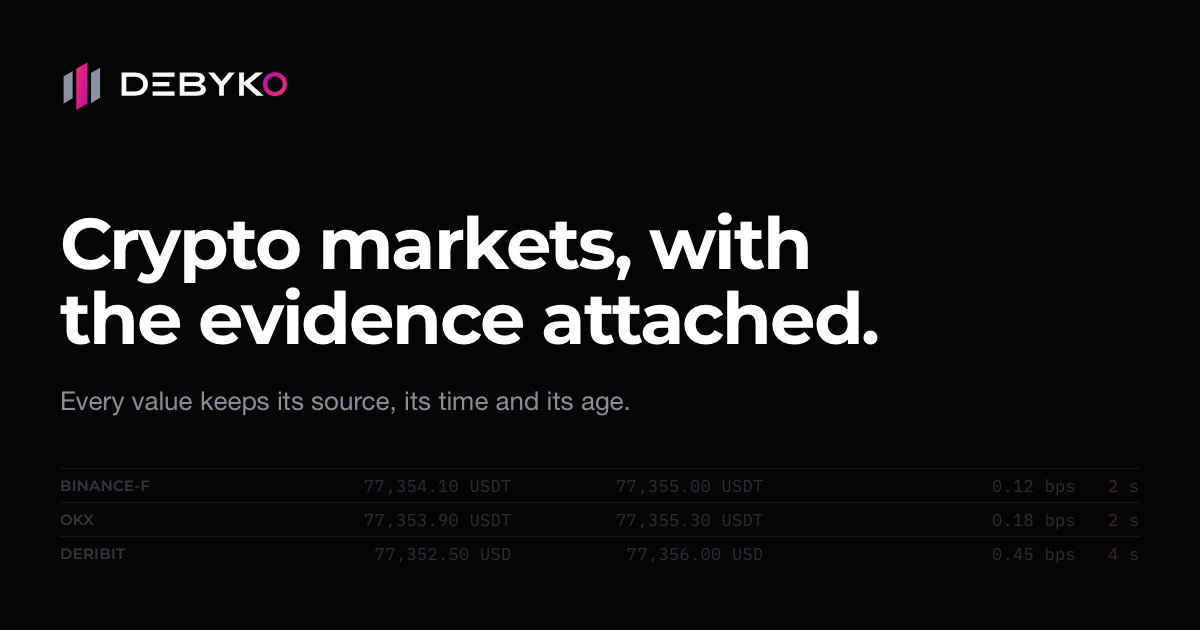
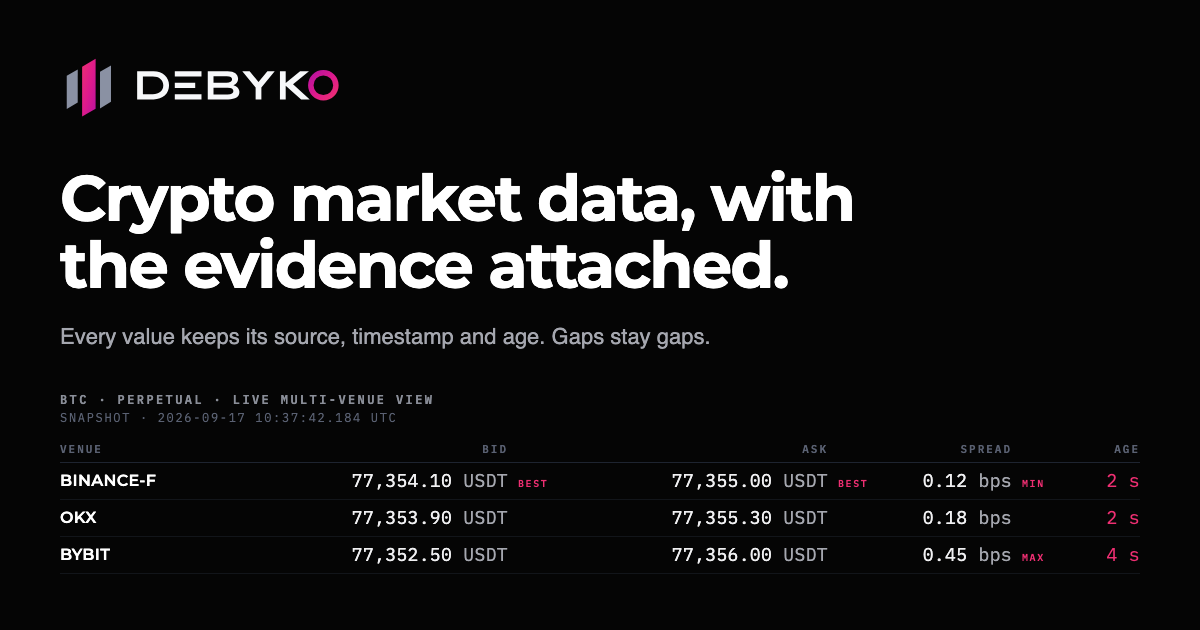
New OG card: proposition plus a live multi-venue proof block
Static HTML source replaces the SVG; og:image carries ?v=2 so feeds refetch it.

diff --git a/og/debyko-og-source.html b/og/debyko-og-source.html
@@ -1,0 +1,83 @@
+<!DOCTYPE html>
+<!--
+  debyko.com OG card, 1200 x 630. Source for debyko-og-1200x630.png.
+  Content is a sample, not live data. Export:
+    Chrome --headless --window-size=1200,630 --screenshot=debyko-og-1200x630.png debyko-og-source.html
+-->
+<html lang="en">
+<head>
+<meta charset="utf-8">
+<title>DEBYKO OG card</title>
+<link rel="stylesheet" href="https://fonts.googleapis.com/css2?family=Montserrat:wght@600;700&family=IBM+Plex+Mono:wght@400;600&display=block">
+<style>
+  html, body { margin: 0; background: #050505; }
+  #og { width: 1200px; height: 630px; box-sizing: border-box; padding: 56px 60px; overflow: hidden;
+        display: flex; flex-direction: column; justify-content: space-between;
+        background: #050505; color: #FFFFFF; font-family: Montserrat, Arial, sans-serif; }
+  .logo { display: block; width: 329px; height: 68px; flex: none; }
+  .prop { display: flex; flex-direction: column; gap: 22px; }
+  h1 { margin: 0; max-width: 920px; font: 700 64px/1.05 Montserrat, Arial, sans-serif; letter-spacing: -.03em; text-wrap: balance; }
+  .sub { margin: 0; max-width: 760px; font: 400 22px/1.45 Helvetica, Arial, sans-serif; color: #A5A7AF; }
+  .proof { display: flex; flex-direction: column; gap: 12px; }
+  .meta { display: flex; flex-direction: column; gap: 6px; font-family: "IBM Plex Mono", monospace; text-transform: uppercase; }
+  .inst { font: 600 12px/1 "IBM Plex Mono", monospace; letter-spacing: .2em; color: #8A8E98; }
+  .stamp { font: 400 12px/1 "IBM Plex Mono", monospace; letter-spacing: .14em; color: #5A6172; font-variant-numeric: tabular-nums; }
+  .table { display: flex; flex-direction: column; font: 400 18px/1 "IBM Plex Mono", monospace; letter-spacing: .02em;
+           font-variant-numeric: tabular-nums; color: #F0F0F2; }
+  .head, .row { display: grid; grid-template-columns: 170px 1fr 1fr 150px 64px; gap: 0 28px; align-items: center; white-space: nowrap; }
+  .head { height: 26px; border-bottom: 1px solid #1E2430; font: 600 11px/1 "IBM Plex Mono", monospace; letter-spacing: .18em; color: #5A6172; }
+  .head span { text-align: right; }
+  .head span:first-child { text-align: left; }
+  .head .pb { padding-right: 42px; }
+  .head .ps { padding-right: 36px; }
+  .row { height: 36px; border-bottom: 1px solid #12151A; }
+  .venue { font: 600 16px/1 Montserrat, Arial, sans-serif; letter-spacing: .02em; color: #FFFFFF; }
+  .cell { display: flex; justify-content: flex-end; align-items: baseline; gap: 10px; }
+  u { text-decoration: none; color: #A5A7AF; }
+  i { font: 600 10px/1 "IBM Plex Mono", monospace; font-style: normal; letter-spacing: .16em; color: #EE2F72; min-width: 32px; text-align: left; }
+  .sp i { min-width: 26px; }
+  .age { text-align: right; color: #EE2F72; }
+</style>
+</head>
+<body>
+<div id="og">
+  <svg class="logo" xmlns="http://www.w3.org/2000/svg" viewBox="0 0 1240 260" role="img" aria-label="DEBYKO"><defs><linearGradient id="g" x1="0" y1="0" x2="1" y2="1"><stop offset="0" stop-color="#EE2F72"></stop><stop offset=".52" stop-color="#DE1A8C"></stop><stop offset="1" stop-color="#B8129F"></stop></linearGradient><linearGradient id="r" x1="0" y1="0" x2="1" y2="1"><stop offset="0" stop-color="#B8129F"></stop><stop offset=".52" stop-color="#DE1A8C"></stop><stop offset="1" stop-color="#EE2F72"></stop></linearGradient></defs><g transform="translate(0,-18) scale(0.60) translate(-250,0)"><path d="M278 156L348 116V326L278 368Z" fill="#8A91A3"></path><path d="M376 98L462 48V366L376 416Z" fill="url(#g)"></path><path d="M490 130L560 90V322L490 364Z" fill="#8A91A3"></path></g><g transform="translate(250,-400)"><path fill-rule="evenodd" d="M36 458H99C134 458 158 480 158 512S134 566 99 566H36ZM58 478V546H96C120 546 136 533 136 512S120 478 96 478Z" fill="#F7F8FA"></path><path fill-rule="nonzero" d="M180 458H282V478H180ZM180 502H258V522H180ZM180 546H282V566H180Z" fill="#F7F8FA"></path><path fill-rule="evenodd" d="M306 458H382C408 458 422 470 422 487C422 499 415 507 404 512C418 516 427 525 427 538C427 556 412 566 384 566H306ZM328 477V502H378C391 502 399 498 399 489C399 481 392 477 379 477ZM328 521V547H382C397 547 404 543 404 534C404 525 397 521 382 521Z" fill="#F7F8FA"></path><path fill-rule="nonzero" d="M438 458H466L500 499L534 458H562L511 520V566H489V520Z" fill="#F7F8FA"></path><path fill-rule="nonzero" d="M582 458H604V503L659 458H693L632 508L696 566H663L604 514V566H582Z" fill="#F7F8FA"></path><circle cx="748" cy="512" r="48" fill="none" stroke="url(#r)" stroke-width="21"></circle></g></svg>
+  <div class="prop">
+    <h1>Crypto market data, with the evidence attached.</h1>
+    <p class="sub">Every value keeps its source, timestamp and age. Gaps stay gaps.</p>
+  </div>
+  <div class="proof">
+    <div class="meta">
+      <span class="inst">BTC · Perpetual · Live multi-venue view</span>
+      <span class="stamp">Snapshot · 2026-09-17 10:37:42.184 UTC</span>
+    </div>
+    <div class="table">
+      <div class="head">
+        <span>VENUE</span><span class="pb">BID</span><span class="pb">ASK</span><span class="ps">SPREAD</span><span>AGE</span>
+      </div>
+      <div class="row">
+        <span class="venue">BINANCE-F</span>
+        <span class="cell"><span>77,354.10 <u>USDT</u></span><i>BEST</i></span>
+        <span class="cell"><span>77,355.00 <u>USDT</u></span><i>BEST</i></span>
+        <span class="cell sp"><span>0.12 <u>bps</u></span><i>MIN</i></span>
+        <span class="age">2 s</span>
+      </div>
+      <div class="row">
+        <span class="venue">OKX</span>
+        <span class="cell"><span>77,353.90 <u>USDT</u></span><i></i></span>
+        <span class="cell"><span>77,355.30 <u>USDT</u></span><i></i></span>
+        <span class="cell sp"><span>0.18 <u>bps</u></span><i></i></span>
+        <span class="age">2 s</span>
+      </div>
+      <div class="row">
+        <span class="venue">BYBIT</span>
+        <span class="cell"><span>77,352.50 <u>USDT</u></span><i></i></span>
+        <span class="cell"><span>77,356.00 <u>USDT</u></span><i></i></span>
+        <span class="cell sp"><span>0.45 <u>bps</u></span><i>MAX</i></span>
+        <span class="age">4 s</span>
+      </div>
+    </div>
+  </div>
+</div>
+</body>
+</html>

diff --git a/data/methodology/index.html b/data/methodology/index.html
@@ -10,15 +10,15 @@
   <meta property="og:url" content="https://debyko.com/data/methodology/">
   <meta property="og:title" content="DEBYKO Methodology — the method is part of the product">
   <meta property="og:description" content="What is collected, the three clocks, thresholds, gaps, derived values, and when a comparison is valid.">
-  <meta property="og:image" content="https://debyko.com/og/debyko-og-1200x630.png">
+  <meta property="og:image" content="https://debyko.com/og/debyko-og-1200x630.png?v=2">
   <meta property="og:image:type" content="image/png">
   <meta property="og:image:width" content="1200">
   <meta property="og:image:height" content="630">
-  <meta property="og:image:alt" content="DEBYKO — every value keeps its source, its time and its age.">
+  <meta property="og:image:alt" content="DEBYKO — Crypto market data, with the evidence attached. Every value keeps its source, timestamp and age.">
   <meta name="twitter:card" content="summary_large_image">
   <meta name="twitter:title" content="DEBYKO Methodology — the method is part of the product">
   <meta name="twitter:description" content="Every value keeps its source, its time and its age.">
-  <meta name="twitter:image" content="https://debyko.com/og/debyko-og-1200x630.png">
+  <meta name="twitter:image" content="https://debyko.com/og/debyko-og-1200x630.png?v=2">
   <link rel="icon" href="../../assets/logo-mark.svg" type="image/svg+xml">
 
   <link rel="preconnect" href="https://fonts.googleapis.com">

diff --git a/index.html b/index.html
@@ -10,15 +10,15 @@
   <meta property="og:url" content="https://debyko.com/">
   <meta property="og:title" content="DEBYKO — Crypto markets, with the evidence attached">
   <meta property="og:description" content="Compare venues live, investigate market history, connect through an API — without hiding the source, age or absence of the data.">
-  <meta property="og:image" content="https://debyko.com/og/debyko-og-1200x630.png">
+  <meta property="og:image" content="https://debyko.com/og/debyko-og-1200x630.png?v=2">
   <meta property="og:image:type" content="image/png">
   <meta property="og:image:width" content="1200">
   <meta property="og:image:height" content="630">
-  <meta property="og:image:alt" content="DEBYKO — every value keeps its source, its time and its age.">
+  <meta property="og:image:alt" content="DEBYKO — Crypto market data, with the evidence attached. Every value keeps its source, timestamp and age.">
   <meta name="twitter:card" content="summary_large_image">
   <meta name="twitter:title" content="DEBYKO — Crypto markets, with the evidence attached">
   <meta name="twitter:description" content="Every value keeps its source, its time and its age.">
-  <meta name="twitter:image" content="https://debyko.com/og/debyko-og-1200x630.png">
+  <meta name="twitter:image" content="https://debyko.com/og/debyko-og-1200x630.png?v=2">
   <link rel="icon" href="assets/logo-mark.svg" type="image/svg+xml">
 
   <link rel="preconnect" href="https://fonts.googleapis.com">

diff --git a/arena/index.html b/arena/index.html
@@ -10,15 +10,15 @@
   <meta property="og:url" content="https://debyko.com/arena/">
   <meta property="og:title" content="DEBYKO Arena — one market, every venue that quotes it">
   <meta property="og:description" content="Price, spread, funding, open interest and depth across perpetual venues, each figure with its source and its age.">
-  <meta property="og:image" content="https://debyko.com/og/debyko-og-1200x630.png">
+  <meta property="og:image" content="https://debyko.com/og/debyko-og-1200x630.png?v=2">
   <meta property="og:image:type" content="image/png">
   <meta property="og:image:width" content="1200">
   <meta property="og:image:height" content="630">
-  <meta property="og:image:alt" content="DEBYKO — every value keeps its source, its time and its age.">
+  <meta property="og:image:alt" content="DEBYKO — Crypto market data, with the evidence attached. Every value keeps its source, timestamp and age.">
   <meta name="twitter:card" content="summary_large_image">
   <meta name="twitter:title" content="DEBYKO Arena — one market, every venue that quotes it">
   <meta name="twitter:description" content="Every value keeps its source, its time and its age.">
-  <meta name="twitter:image" content="https://debyko.com/og/debyko-og-1200x630.png">
+  <meta name="twitter:image" content="https://debyko.com/og/debyko-og-1200x630.png?v=2">
   <link rel="icon" href="../assets/logo-mark.svg" type="image/svg+xml">
 
   <link rel="preconnect" href="https://fonts.googleapis.com">

diff --git a/data/coverage/index.html b/data/coverage/index.html
@@ -10,15 +10,15 @@
   <meta property="og:url" content="https://debyko.com/data/coverage/">
   <meta property="og:title" content="DEBYKO Coverage — what is collected, and since when">
   <meta property="og:description" content="The venue catalogue and an hour-by-hour record of what was observed, with the holes left in.">
-  <meta property="og:image" content="https://debyko.com/og/debyko-og-1200x630.png">
+  <meta property="og:image" content="https://debyko.com/og/debyko-og-1200x630.png?v=2">
   <meta property="og:image:type" content="image/png">
   <meta property="og:image:width" content="1200">
   <meta property="og:image:height" content="630">
-  <meta property="og:image:alt" content="DEBYKO — every value keeps its source, its time and its age.">
+  <meta property="og:image:alt" content="DEBYKO — Crypto market data, with the evidence attached. Every value keeps its source, timestamp and age.">
   <meta name="twitter:card" content="summary_large_image">
   <meta name="twitter:title" content="DEBYKO Coverage — what is collected, and since when">
   <meta name="twitter:description" content="Every value keeps its source, its time and its age.">
-  <meta name="twitter:image" content="https://debyko.com/og/debyko-og-1200x630.png">
+  <meta name="twitter:image" content="https://debyko.com/og/debyko-og-1200x630.png?v=2">
   <link rel="icon" href="../../assets/logo-mark.svg" type="image/svg+xml">
 
   <link rel="preconnect" href="https://fonts.googleapis.com">

diff --git a/data/status/index.html b/data/status/index.html
@@ -10,15 +10,15 @@
   <meta property="og:url" content="https://debyko.com/data/status/">
   <meta property="og:title" content="DEBYKO Data status — collector health, per venue">
   <meta property="og:description" content="Data quality as public system state: per venue, per collector, with ages. No single green badge.">
-  <meta property="og:image" content="https://debyko.com/og/debyko-og-1200x630.png">
+  <meta property="og:image" content="https://debyko.com/og/debyko-og-1200x630.png?v=2">
   <meta property="og:image:type" content="image/png">
   <meta property="og:image:width" content="1200">
   <meta property="og:image:height" content="630">
-  <meta property="og:image:alt" content="DEBYKO — every value keeps its source, its time and its age.">
+  <meta property="og:image:alt" content="DEBYKO — Crypto market data, with the evidence attached. Every value keeps its source, timestamp and age.">
   <meta name="twitter:card" content="summary_large_image">
   <meta name="twitter:title" content="DEBYKO Data status — collector health, per venue">
   <meta name="twitter:description" content="Every value keeps its source, its time and its age.">
-  <meta name="twitter:image" content="https://debyko.com/og/debyko-og-1200x630.png">
+  <meta name="twitter:image" content="https://debyko.com/og/debyko-og-1200x630.png?v=2">
   <link rel="icon" href="../../assets/logo-mark.svg" type="image/svg+xml">
 
   <link rel="preconnect" href="https://fonts.googleapis.com">

diff --git a/og/README.md b/og/README.md
@@ -1,16 +1,24 @@
 # debyko.com — OG card
 
-- `debyko-og-1200x630.png` — the card, 1200 × 630, 73 KB
-- `debyko-og-source.svg` — vector source, editable text (Montserrat 700 · Helvetica/Arial · IBM Plex Mono; logo geometry embedded from the design system's on-dark lock-up)
-- `debyko-og-600x315-check.png` — half-size legibility check
+- `debyko-og-1200x630.png` — the card, 1200 × 630, 70 KB
+- `debyko-og-source.html` — source: static HTML, `#og` is exactly 1200 × 630 (Montserrat 600/700 · Helvetica/Arial · IBM Plex Mono from Google Fonts; logo is the on-dark lock-up, inlined)
 
-Ground #050505, flat. Safe margins 60 px. Table fragment sits at #2A2E36 on the ground — a hint, not data.
+Ground #050505, flat. Safe margins 60 px. Logo → proposition → proof block
+(BTC perpetual, three venues, snapshot stamp, ages). The table is a sample, not live data.
 
-Meta tags for `index.html`:
+Colour = meaning: figures #F0F0F2, units #A5A7AF, venue names #FFFFFF,
+magenta #EE2F72 only for information about the data (BEST / MIN / MAX, age),
+column heads and the stamp #5A6172 / #8A8E98. No green, no red.
 
-    <meta property="og:title" content="DEBYKO — Crypto markets, with the evidence attached.">
-    <meta property="og:description" content="Every value keeps its source, its time and its age.">
-    <meta property="og:image" content="https://debyko.com/og/debyko-og-1200x630.png">
-    <meta property="og:image:width" content="1200">
-    <meta property="og:image:height" content="630">
-    <meta name="twitter:card" content="summary_large_image">
+The lock-up's `O` carries the optical overshoot (r 48, stroke 21); the design system
+still has r 46 / stroke 20 until that change goes upstream.
+
+Export:
+
+    "/Applications/Google Chrome.app/Contents/MacOS/Google Chrome" --headless=new \
+      --hide-scrollbars --force-device-scale-factor=1 --window-size=1200,630 \
+      --virtual-time-budget=5000 --screenshot="$PWD/og/debyko-og-1200x630.png" \
+      "file://$PWD/og/debyko-og-source.html"
+
+After changing the PNG, bump `?v=` on `og:image` and `twitter:image` in every page —
+social networks cache the card by URL.
